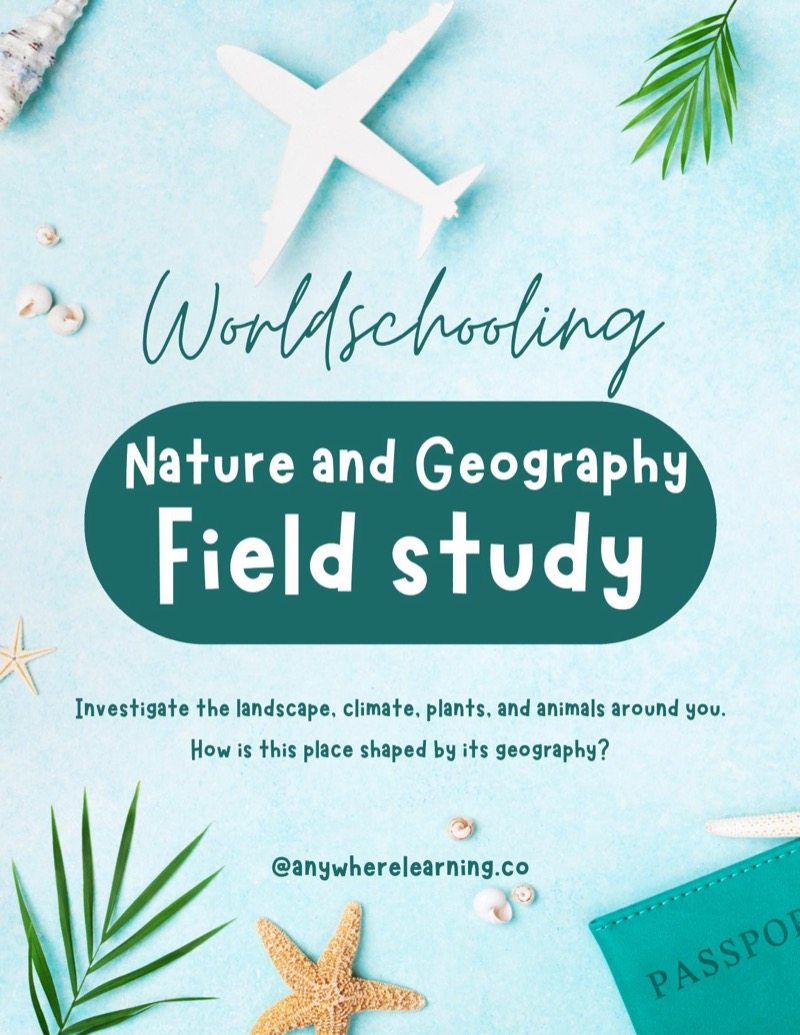
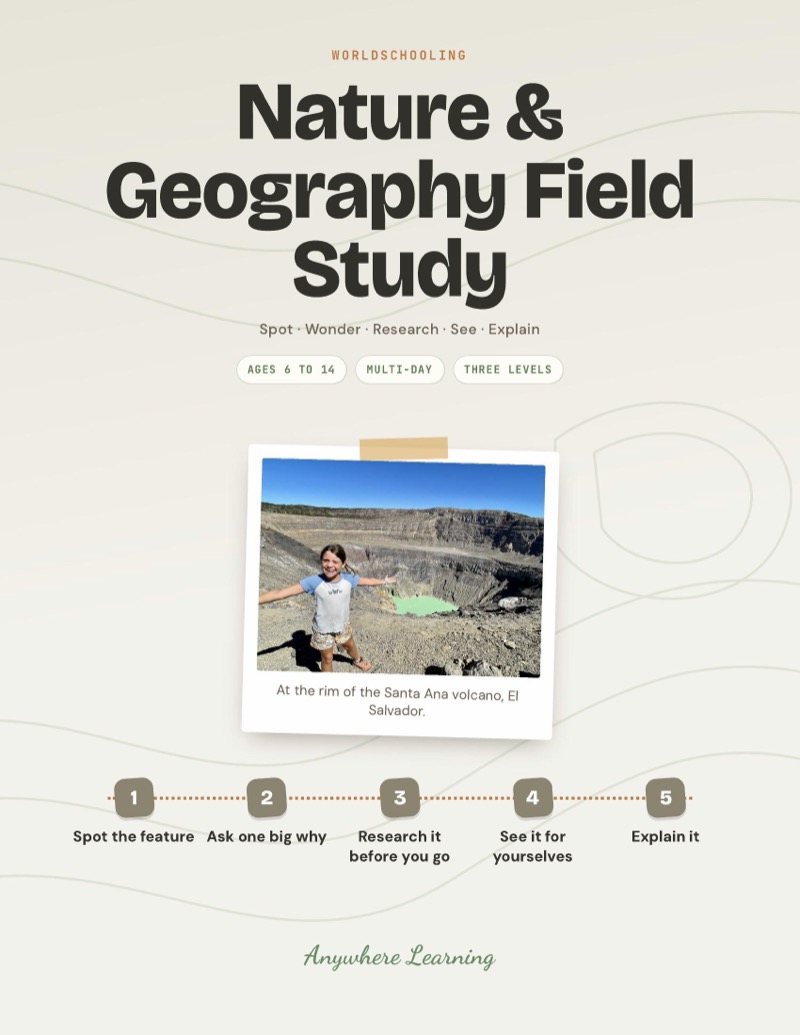
Nature & Geography Field Study: redesigned guide, Santa Ana volcano and Florida swamp story, crater photo, ages 6-14

diff --git a/scripts/seed.ts b/scripts/seed.ts
@@ -125,7 +125,7 @@ async function seed() {
     { name: 'Currency & Market Math', slug: 'currency-market-math', description: 'Convert currencies, compare prices, and practise mental maths in real markets.', shortDescription: 'Currency and market maths in real markets.', priceCents: 599, compareAtPriceCents: null, stripePriceId: 'price_1TS08fAkIBECpwGmwUsCteF2', blobUrl: '', imageUrl: '/products/currency-market-math.jpg', category: 'worldschooling', isBundle: false, bundleProductIds: null, activityCount: null, ageRange: 'Ages 6–14', sortOrder: 201, active: false },
     { name: 'Everyday Life Comparison', slug: 'everyday-life-comparison', description: 'Compare daily life across cultures: transport, food, school, and play.', shortDescription: 'Compare everyday life across cultures.', priceCents: 599, compareAtPriceCents: null, stripePriceId: 'price_1TS08gAkIBECpwGmg1RJabLC', blobUrl: '', imageUrl: '/products/everyday-life-comparison.jpg', category: 'worldschooling', isBundle: false, bundleProductIds: null, activityCount: null, ageRange: 'Ages 6–14', sortOrder: 202, active: false },
     { name: 'Local Language Mission', slug: 'local-language-mission', description: 'Your kid uses a language they barely speak to do one real job, like buying fruit, ordering a snack or asking the way. They pick the mission, learn just the words it needs, rehearse with you as the shopkeeper, then do it for real with a real person. Being understood is the goal, not getting it perfect. Works for any language, anywhere you travel.', shortDescription: 'Worldschooling language activity for kids ages 6-14: pick a real mission, learn the words, rehearse, then do it with a real person.', priceCents: 599, compareAtPriceCents: null, stripePriceId: 'price_1TS08gAkIBECpwGmAQk4fwgK', blobUrl: '', imageUrl: '/products/local-language-mission.jpg', category: 'worldschooling', isBundle: false, bundleProductIds: null, activityCount: null, ageRange: 'Ages 6–14', sortOrder: 203, active: true },
-    { name: 'Nature & Geography Field Study', slug: 'nature-geography-field-study', description: 'Observe local plants, wildlife, climate, and geography wherever you travel.', shortDescription: 'Field study of nature and geography.', priceCents: 599, compareAtPriceCents: null, stripePriceId: 'price_1TS08hAkIBECpwGmAdyMW1AM', blobUrl: '', imageUrl: '/products/nature-geography-field-study.jpg', category: 'worldschooling', isBundle: false, bundleProductIds: null, activityCount: null, ageRange: 'Ages 6–14', sortOrder: 204, active: true },
+    { name: 'Nature & Geography Field Study', slug: 'nature-geography-field-study', description: 'Ask one big why about a real landscape feature, research it, go and see the evidence, then explain it.', shortDescription: 'Study one landscape feature like a field scientist.', priceCents: 599, compareAtPriceCents: null, stripePriceId: 'price_1TS08hAkIBECpwGmAdyMW1AM', blobUrl: '', imageUrl: '/products/nature-geography-field-study.jpg', category: 'worldschooling', isBundle: false, bundleProductIds: null, activityCount: null, ageRange: 'Ages 6–14', sortOrder: 204, active: true },
     { name: 'People & Stories Interview Project', slug: 'people-stories-interview', description: 'Interview locals and travellers, listen carefully, and record their stories.', shortDescription: 'Interview people and collect stories.', priceCents: 599, compareAtPriceCents: null, stripePriceId: 'price_1TS08iAkIBECpwGmwqkBXDHr', blobUrl: '', imageUrl: '/products/people-stories-interview.jpg', category: 'worldschooling', isBundle: false, bundleProductIds: null, activityCount: null, ageRange: 'Ages 6–14', sortOrder: 205, active: false },
     { name: 'Street Explorer Map Maker', slug: 'street-explorer-map-maker', description: 'Walk new neighbourhoods and create hand-drawn maps with landmarks and stories.', shortDescription: 'Hand-drawn maps of new neighbourhoods.', priceCents: 599, compareAtPriceCents: null, stripePriceId: 'price_1TS08iAkIBECpwGmS2qJguOh', blobUrl: '', imageUrl: '/products/street-explorer-map-maker.jpg', category: 'worldschooling', isBundle: false, bundleProductIds: null, activityCount: null, ageRange: 'Ages 6–14', sortOrder: 206, active: false },
     { name: 'Transport & Navigation Challenge', slug: 'transport-navigation-challenge', description: 'Your kid works out how to get the family to a real place you want to reach while you travel. They find out how people get there, compare the options and the prices, plan each leg and help book it, then lead the family there on the day and handle whatever changes. Back where you are staying, they draw the whole route from memory.', shortDescription: 'Worldschooling navigation challenge for kids ages 6-14: find the way in, compare and book the trip, then lead the family there.', priceCents: 599, compareAtPriceCents: null, stripePriceId: 'price_1TS08jAkIBECpwGmI2C7uWqZ', blobUrl: '', imageUrl: '/products/transport-navigation-challenge.jpg', category: 'worldschooling', isBundle: false, bundleProductIds: null, activityCount: null, ageRange: 'Ages 6–14', sortOrder: 207, active: true },

diff --git a/lib/product-descriptions.ts b/lib/product-descriptions.ts
@@ -2368,27 +2368,27 @@ export const productDescriptions: Record<string, ProductDescription> = {
   },
   'nature-geography-field-study': {
     opening:
-      'Turn any landscape into a field study. Kids observe local plants, wildlife, climate, and geography. They sketch ecosystems, track weather, identify landforms, and connect what they see to bigger geographical patterns. Earth science through direct experience.',
+      'Your kid picks one feature in the landscape where you are staying, like a volcano, a swamp or a mountain, and studies it like a field scientist. They ask one big why question, research it, go and see the evidence for themselves, then explain what they found.',
     whatsIncluded: [
-      'Field study observation framework',
-      'Plant, wildlife, and ecosystem sketching prompts',
-      'Weather and climate tracking activities',
-      'Landform identification and geography connections',
-      'Reflection on patterns across regions',
+      'Five steps, from spotting the feature to explaining it',
+      'Read the landscape, Good why questions, Field notes and Ask the guide cards',
+      'A worked example: why the crater lake on the Santa Ana volcano is green',
+      'My field study page, with your question, evidence and answer',
+      'Three levels per step, for any landscape, anywhere',
     ],
-    skillTags: ['Geography', 'Science', 'Observation', 'Nature', 'Sketching'],
+    skillTags: ['Science', 'Geography', 'Observation', 'Research', 'Nature'],
     insideTheLearning: {
       lead:
-        'Your child does real field study outdoors: observing slowly, sketching what they see, tracking the weather, identifying landforms. Then the question shifts from what do I see to why is it like this, and how does that shape the people who live here.',
+        'Your kid turns a hike into fieldwork: one why question asked before you go, a little research, then evidence collected with their own eyes. They finish by explaining what they found and how the landscape shapes life for the people and animals there.',
       skills: [
-        { skill: 'Observation', where: 'Noticing colours, textures, patterns and movement without rushing past them' },
-        { skill: 'Science', where: 'Asking questions, predicting, gathering evidence and drawing a conclusion' },
-        { skill: 'Geography', where: 'Seeing how climate, landscape, plants, animals and people connect to a place' },
-        { skill: 'Critical Thinking', where: 'Moving from what is there to why it is there and what it means for people' },
-        { skill: 'Art', where: 'Sketching plants, wildlife and landforms closely enough to record them properly' },
+        { skill: 'Science', where: 'What makes a landscape look the way it does' },
+        { skill: 'Geography', where: 'Landforms, water and climate in a real place' },
+        { skill: 'Research', where: 'Checking a guess against good sources and a local guide' },
+        { skill: 'Observation', where: 'Collecting real evidence in the field' },
+        { skill: 'Writing', where: 'Explaining it clearly to someone who was not there' },
       ],
     },
-    format: 'Activity Guide',
+    format: 'Project Guide',
   },
   'people-stories-interview': {
     opening:

diff --git a/lib/skills.ts b/lib/skills.ts
@@ -88,7 +88,7 @@ export const productSkills: Record<string, ProductSkills> = {
   "mini-magazine-creator": { canonical: ["Writing","Design","Multiple Text Types","Creativity","Publishing"], families: ["communication-and-writing","critical-thinking-and-reasoning","empathy-and-people"] },
   "mini-movie": { canonical: ["Storytelling","Writing","Performing","Art","Collaboration"], families: ["communication-and-writing","critical-thinking-and-reasoning","planning-and-self-management"] },
   "my-review-column": { canonical: ["Opinion Writing","Critical Analysis","Communication","Voice","Math"], families: ["communication-and-writing","critical-thinking-and-reasoning","empathy-and-people"] },
-  "nature-geography-field-study": { canonical: ["Art","Critical Thinking","Geography","Observation","Science"], families: ["creativity-and-making","critical-thinking-and-reasoning","nature-and-science","world-and-geography"] },
+  "nature-geography-field-study": { canonical: ["Science","Geography","Observation","Research","Nature"], families: ["creativity-and-making","critical-thinking-and-reasoning","nature-and-science","world-and-geography"] },
   "neighbourhood-interview": { canonical: ["Interviewing","Listening","Empathy","Writing","Communication"], families: ["communication-and-writing","empathy-and-people"] },
   "neighbourhood-problem-spotter": { canonical: ["Critical Thinking","Civic Engagement","Problem-Solving","Observation","Communication"], families: ["communication-and-writing","critical-thinking-and-reasoning"] },
   "outdoor-survival-planner": { canonical: ["Planning","Critical Thinking","Outdoor Skills","Resourcefulness","Life Skills"], families: ["critical-thinking-and-reasoning","empathy-and-people","nature-and-science","planning-and-self-management"] },

diff --git a/scripts/create-stripe-products.ts b/scripts/create-stripe-products.ts
@@ -109,7 +109,7 @@ const catalog = [
   { slug: 'currency-market-math', name: 'Currency & Market Math', priceCents: 599, description: 'Convert currencies, compare prices, and practise mental maths in real markets.' },
   { slug: 'everyday-life-comparison', name: 'Everyday Life Comparison', priceCents: 599, description: 'Compare daily life across cultures: transport, food, school, and play.' },
   { slug: 'local-language-mission', name: 'Local Language Mission', priceCents: 599, description: 'Worldschooling language activity for kids ages 6-14: pick a real mission, learn the words, rehearse, then do it with a real person.' },
-  { slug: 'nature-geography-field-study', name: 'Nature & Geography Field Study', priceCents: 599, description: 'Observe local plants, wildlife, climate, and geography while travelling.' },
+  { slug: 'nature-geography-field-study', name: 'Nature & Geography Field Study', priceCents: 599, description: 'Ask one big why about a real landscape feature, research it, go and see the evidence, then explain it.' },
   { slug: 'people-stories-interview', name: 'People & Stories Interview Project', priceCents: 599, description: 'Interview locals and travellers, listen carefully, and record their stories.' },
   { slug: 'street-explorer-map-maker', name: 'Street Explorer Map Maker', priceCents: 599, description: 'Walk new neighbourhoods and create hand-drawn maps with landmarks.' },
   { slug: 'transport-navigation-challenge', name: 'Transport & Navigation Challenge', priceCents: 599, description: 'Worldschooling navigation challenge for kids ages 6-14: find the way in, compare and book the trip, then lead the family there.' },

diff --git a/lib/fallback-products.ts b/lib/fallback-products.ts
@@ -2101,15 +2101,15 @@ export const fallbackProducts: FallbackProduct[] = [
     name: "Nature & Geography Field Study",
     slug: "nature-geography-field-study",
     description:
-      "Turn any landscape into a field study. Kids observe local plants, wildlife, climate, and geography. They sketch ecosystems, track weather, identify landforms, and connect what they see to bigger geographical patterns. Earth science through direct experience.",
+      "Your kid picks one feature in the landscape where you are staying, like a volcano, a swamp or a mountain, and studies it like a field scientist. They ask one big why question, research it, go and see the evidence for themselves, then explain what they found.",
     shortDescription:
-      "Worldschooling field study for kids ages 6-14: observe local nature and geography wherever you travel.",
+      "Worldschooling field study for kids ages 6-14: ask one big why about a volcano, swamp or mountain, research it, then go and see the evidence.",
     priceCents: 599,
     compareAtPriceCents: null,
     stripePriceId: "price_1TS08hAkIBECpwGmAdyMW1AM",
     blobUrl: "",
     imageUrl: "/products/nature-geography-field-study.jpg",
-    previewFile: "Preview Worldschooling - Nature and Geography Field Study.pdf",
+    previewFile: "Preview Worldschooling - Nature and Geography Field Study v3.pdf",
     category: "worldschooling",
     isBundle: false,
     bundleProductIds: null,

diff --git a/lib/activity-blob-urls.ts b/lib/activity-blob-urls.ts
@@ -79,7 +79,7 @@ export const ACTIVITY_BLOB_URLS: Record<string, string> = {
   "nature-choice-boards": "https://xkj3tzlgu6ylgllk.public.blob.vercel-storage.com/Outdoor%20Learning%20-%20Nature%20Choice%20Boards%20v11.pdf",
   "nature-crafts": "https://xkj3tzlgu6ylgllk.public.blob.vercel-storage.com/Outdoor%20Learning%20-%20Nature%20crafts%20for%20kids%20v6.pdf",
   "nature-data-tracker": "https://xkj3tzlgu6ylgllk.public.blob.vercel-storage.com/Real-world%20math%20-%20Nature%20Data%20Tracker%20v7.pdf",
-  "nature-geography-field-study": "https://xkj3tzlgu6ylgllk.public.blob.vercel-storage.com/Worldschooling%20-%20Nature%20and%20Geography%20Field%20Study%20v2.pdf",
+  "nature-geography-field-study": "https://xkj3tzlgu6ylgllk.public.blob.vercel-storage.com/Worldschooling%20-%20Nature%20and%20Geography%20Field%20Study%20v3.pdf",
   "nature-journal-walks": "https://xkj3tzlgu6ylgllk.public.blob.vercel-storage.com/Outdoor%20Learning%20-%20My%20nature%20journal%20v8.pdf",
   "nature-walk-task-cards": "https://xkj3tzlgu6ylgllk.public.blob.vercel-storage.com/Outdoor%20Learning%20-%20Nature%20Walk%20Task%20Cards%20v10.pdf",
   "neighbourhood-interview": "https://xkj3tzlgu6ylgllk.public.blob.vercel-storage.com/Communication%20%26%20Writing%20-%20Neighbourhood%20Interview%20Project%20v7.pdf",

diff --git a/lib/roadmap.ts b/lib/roadmap.ts
@@ -397,7 +397,7 @@ const SUPPLEMENTAL_TERRITORY_TAGS: Record<string, string[]> = {
   'outdoor-movement-challenge-cards': ['physical', 'self-management'],
   'problem-solver': ['critical-thinking', 'creativity', 'self-management'],
   'farmers-market-challenge': ['math', 'life-skills'],
-  'nature-geography-field-study': ['physical', 'critical-thinking'],
+  'nature-geography-field-study': ['physical', 'critical-thinking', 'writing'],
   'transport-navigation-challenge': ['critical-thinking', 'math', 'self-management'],
   'world-food-detective': ['life-skills', 'critical-thinking'],
   'cultural-celebration-journal': ['writing', 'communication'],
